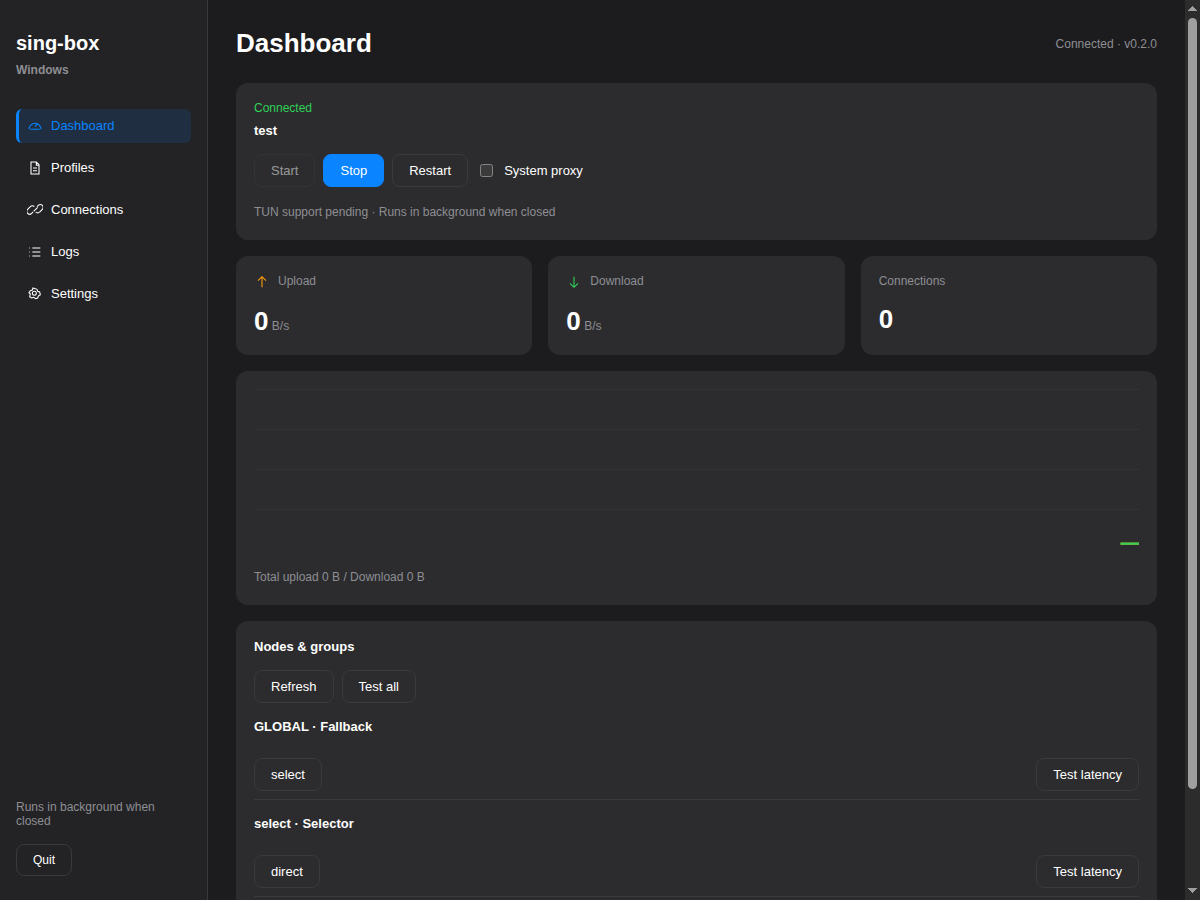
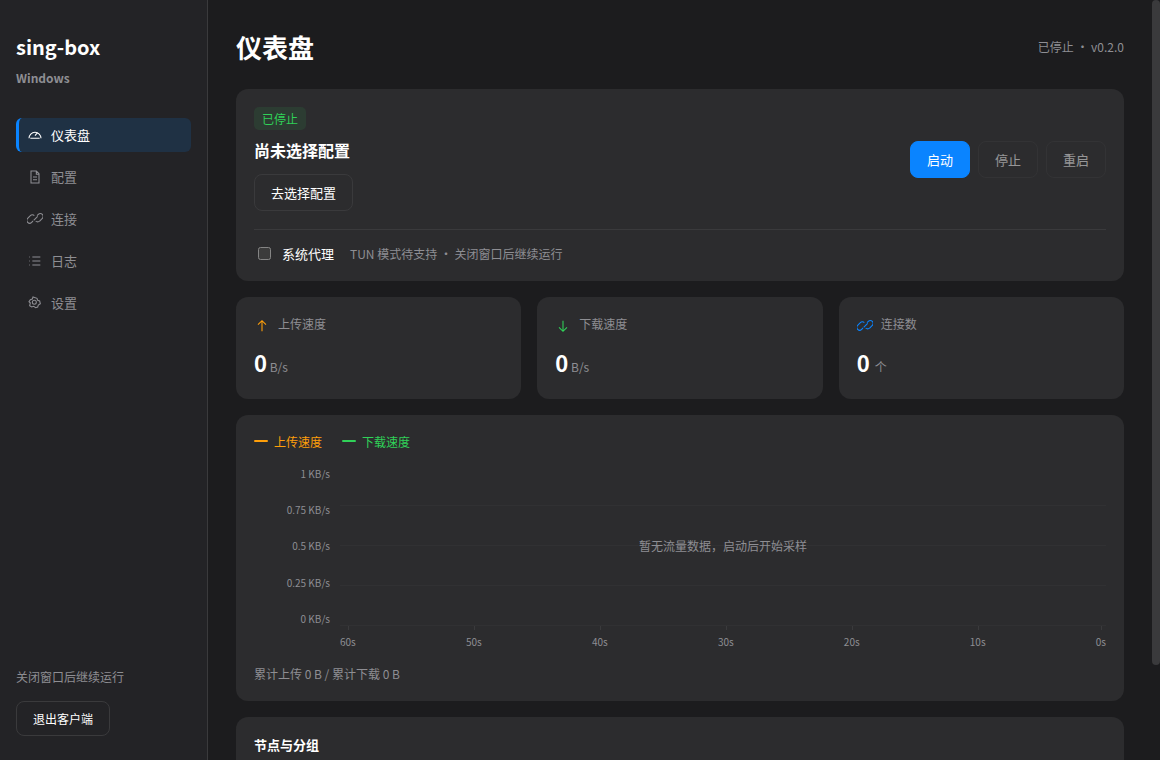
style: polish dashboard metrics, traffic empty state and controls

diff --git a/cmd/singbox-win/web/app.js b/cmd/singbox-win/web/app.js
@@ -2,6 +2,7 @@ const dictionary = {
 "Dashboard":["仪表盘","Dashboard"],"Profiles":["配置","Profiles"],"Connections":["连接","Connections"],"Logs":["日志","Logs"],"Settings":["设置","Settings"],
 "upload":["上传速度","Upload"],"download":["下载速度","Download"],"network":["网络","Network"],"duration":["时长","Duration"],"clear":["清空","Clear"],"copyLink":["复制导入链接","Copy import link"],"language":["语言","Language"],"theme":["主题","Theme"],"dark":["深色","Dark"],"light":["浅色","Light"],"register":["注册深链","Register deep links"],"unregister":["取消注册","Unregister"],"exportLogs":["导出日志","Export logs"],"quit":["退出客户端","Quit"],"actions":["操作","Actions"],"saved":["已保存","Saved"],"connected":["运行中","Connected"],"stopped":["已停止","Stopped"],"noProfile":["尚未选择配置","No profile selected"],"test":["测速","Test latency"],"urlRequired":["请先输入订阅 URL","Enter a subscription URL first"],
 };
+Object.assign(dictionary,{chooseProfile:["去选择配置","Choose a profile"],countUnit:["个","items"],trafficEmpty:["暂无流量数据，启动后开始采样","No traffic data. Start to begin sampling."]});
 let language="zh-CN";
 function t(key){return dictionary[key]?.[language==="en"?1:0] || key;}
 function applyLanguage(value){language=value==="en"?"en":"zh-CN";document.documentElement.lang=language;document.querySelectorAll("[data-i18n]").forEach(el=>{if(el.matches("nav button"))return;el.textContent=t(el.dataset.i18n);});document.querySelectorAll("[data-i18n-placeholder]").forEach(el=>el.placeholder=t(el.dataset.i18nPlaceholder));if(document.getElementById("title"))document.getElementById("title").textContent=t(page);}
@@ -227,10 +228,11 @@ async function poll() {
   const s = await api("state");
   running = s.running;
   $("connectionState").textContent=t(s.running?"connected":"stopped");
-  for(const b of document.querySelectorAll("[data-core]")){b.classList.toggle("primary",b.dataset.core===(running?"stop":"start"));b.disabled=b.dataset.core==="start"?running:!running;}
+  for(const b of document.querySelectorAll("[data-core]")){b.classList.toggle("primary",b.dataset.core==="start");b.disabled=b.dataset.core==="start"?running:!running;}
   $("status").textContent =
     (s.running ? t("connected") : t("stopped")) + " · v" + s.version;
   $("profile").textContent = s.profile || t("noProfile");
+  $("chooseProfile").hidden = !!s.profile;
   $("proxy").checked = s.system_proxy;
   if (s.error) error(s.error);
   if (page === "Logs") {
@@ -267,25 +269,15 @@ async function poll() {
     last = { ...t, time: now };
     setRate("up",up);
     setRate("down",down);
-    $("count").textContent = t.connections;
+    $("countValue").textContent = t.connections;
     $("totals").textContent =
       (language==="en"?"Total upload ":"累计上传 ") + bytes(t.upload_total) + (language==="en"?" / Download ":" / 累计下载 ") + bytes(t.download_total);
     history.push([up, down, now]);
     history = history.filter(v=>now-v[2]<60000);
     if (history.length > 60) history.shift();
-    const max = Math.max(1, ...history.flatMap(v=>v.slice(0,2)));
-    for (const [idx, id] of [
-      [0, "upLine"],
-      [1, "downLine"],
-    ])
-      $(id).setAttribute(
-        "points",
-        history
-          .map((v, i) => 800 - (now-v[2])*800/60000 + "," + (145 - (v[idx] / max) * 140))
-          .join(" "),
-      );
+    renderChart(now);
   }
-  if (!running) {last=null;setRate("up",0);setRate("down",0);$("count").textContent="0";}
+  if (!running) {last=null;setRate("up",0);setRate("down",0);$("countValue").textContent="0";renderChart(Date.now());}
   if(page==="Dashboard" && (!window.nodesLoaded || window.nodesRunning!==running)){window.nodesLoaded=true;window.nodesRunning=running;await nodes();}
 }
 let polling = false;
@@ -313,3 +305,17 @@ $("exportLogs").onclick=()=>action(async()=>{const logs=await api("logs?limit=50
 for(const el of document.querySelectorAll("[data-arrow]")){el.append(icon("arrow"));if(el.dataset.arrow==="up")el.firstChild.style.transform="rotate(180deg)";}
 
 function setRate(id,n){const [value,unit]=bytes(n).split(" ");const small=document.createElement("span");small.className="unit";small.textContent=" "+unit+"/s";$(id).replaceChildren(document.createTextNode(value),small);}
+
+$("chooseProfile").onclick=()=>document.querySelector('[data-page="Profiles"]').click();
+$("countIcon").append(icon("Connections"));
+function renderChart(now){
+  const samples=history.filter(v=>now-v[2]<60000);
+  const peak=Math.max(0,...samples.flatMap(v=>v.slice(0,2)));
+  const max=peak ? Math.pow(10,Math.floor(Math.log10(peak)))*Math.ceil(peak/Math.pow(10,Math.floor(Math.log10(peak)))) : 1024;
+  const unit=max>=1048576?1048576:max>=1024?1024:1;
+  const suffix=unit===1048576?"MB/s":unit===1024?"KB/s":"B/s";
+  $("yAxis").replaceChildren(...[1,.75,.5,.25,0].map(f=>{const el=document.createElement("span");el.textContent=Number((max*f/unit).toFixed(2))+" "+suffix;return el;}));
+  $("chartEmpty").hidden=samples.length>0;
+  for(const [idx,id] of [[0,"upLine"],[1,"downLine"]])$(id).setAttribute("points",samples.map(v=>(800-(now-v[2])*800/60000)+","+(158-v[idx]/max*156)).join(" "));
+}
+renderChart(Date.now());

diff --git a/cmd/singbox-win/web/style.css b/cmd/singbox-win/web/style.css
@@ -7,7 +7,7 @@ aside{width:208px;height:100vh;position:fixed;background:var(--sidebar);padding:
 aside h2{font-size:20px;margin:8px 0 32px}
 small{display:block;font-size:12px;color:var(--muted);margin-top:8px}
 nav button{display:flex;align-items:center;gap:8px;width:100%;height:34px;line-height:34px;text-align:left;background:transparent;border:0;border-left:3px solid transparent;border-radius:6px;margin:8px 0;padding:0 8px}
-nav button.active{background:#0a84ff1f;color:#0a84ff;border-left-color:#0a84ff}
+nav button.active{background:rgba(10,132,255,0.14);color:#fff;border-left-color:#0a84ff}
 nav svg,.metricIcon svg{width:16px;height:16px;flex-shrink:0;vertical-align:middle}
 .metricIcon{display:inline-flex;vertical-align:middle;margin-right:8px}
 .upload{color:#ff9f0a}
@@ -31,10 +31,10 @@ input[type=checkbox]{accent-color:#0a84ff}
 textarea{display:block;width:100%;height:128px;margin:16px 0}
 label{display:inline-flex;align-items:center;gap:8px}
 form label{display:flex;justify-content:space-between;max-width:600px;margin:16px 0}
-strong{display:block;font-size:26px;font-weight:600;margin-top:16px;color:var(--text)}
+strong{display:block;font-size:22px;font-weight:600;margin-top:16px;color:var(--text)}
 .metrics{display:grid;grid-template-columns:repeat(3,1fr);gap:16px}
 .metrics article{color:var(--muted);font-size:12px}
-#chart{width:100%;height:160px;background:repeating-linear-gradient(to top,transparent 0,transparent 39px,var(--border) 40px)}
+#chart{display:block;width:100%;height:160px}
 #error{white-space:pre-wrap;color:#ff6961;background:#442a2a;border-radius:8px;padding:16px;margin-bottom:16px;display:none}
 #logs{background:var(--card);padding:18px;border-radius:12px;height:65vh;overflow:auto;white-space:pre-wrap;font-size:12px;line-height:1.7}
 table{width:100%;text-align:left;border-collapse:collapse;font-size:13px}
@@ -63,3 +63,32 @@ main{margin-left:160px;width:calc(100% - 160px);padding:28px}
 
 .statusLabel{font-size:12px;color:#30d158;margin-bottom:8px}
 #nodesRefresh{margin-right:8px}
+
+nav button{color:#8e8e93}
+nav button:hover{background:rgba(255,255,255,.06)}
+nav button.active:hover{background:rgba(10,132,255,.14)}
+main{height:100vh;overflow:auto}
+*::-webkit-scrollbar{width:8px;height:8px}
+*::-webkit-scrollbar-thumb{background:#3a3a3c;border-radius:4px}
+*::-webkit-scrollbar-track{background:transparent}
+.metrics strong{line-height:28px;margin-top:14px}
+.unit{display:inline;vertical-align:baseline;line-height:inherit}
+.connectionsIcon{color:#0a84ff}
+.statusTop{display:flex;align-items:center;justify-content:space-between;gap:16px}
+.statusInfo h2{margin:0;font-size:16px}
+.statusInfo #chooseProfile{margin-top:12px}
+.statusLabel{display:inline-flex;border-radius:5px;padding:3px 8px;background:rgba(48,209,88,.1)}
+.statusActions{display:flex;gap:8px;flex-wrap:wrap}
+.proxyRow{display:flex;align-items:center;gap:16px;flex-wrap:wrap;border-top:1px solid var(--border);margin-top:18px;padding-top:14px}
+.proxyRow p{margin:0}
+.chartLegend{display:flex;gap:20px;font-size:12px;margin-bottom:16px}
+.chartLegend>span{display:flex;align-items:center;gap:6px}
+.chartLegend i{width:14px;height:2px;background:currentColor;border-radius:2px}
+.chartFrame{display:grid;grid-template-columns:76px 1fr;grid-template-rows:160px 22px;column-gap:10px}
+.yAxis{display:flex;flex-direction:column;justify-content:space-between;color:var(--muted);font-size:10px;text-align:right}
+.plot{position:relative;background:repeating-linear-gradient(to top,var(--border) 0,var(--border) 1px,transparent 1px,transparent 40px)}
+#chartEmpty{position:absolute;inset:0;display:flex;align-items:center;justify-content:center;color:var(--muted);font-size:12px;text-align:center;padding:12px;background:color-mix(in srgb,var(--card) 65%,transparent)}
+.xAxis{grid-column:2;display:flex;justify-content:space-between;color:var(--muted);font-size:10px}
+.xAxis span{padding-top:8px;position:relative}
+.xAxis span:before{content:"";position:absolute;top:0;left:50%;height:4px;border-left:1px solid var(--border)}
+@media(max-width:900px){.statusTop{align-items:flex-start;flex-wrap:wrap}}

diff --git a/cmd/singbox-win/web/index.html b/cmd/singbox-win/web/index.html
@@ -19,35 +19,31 @@
       <div id="error" role="alert"></div>
       <section id="Dashboard">
         <div class="card" id="statusCard">
-          <div class="statusLabel" id="connectionState">0</div><h2 id="profile">尚未选择配置</h2>
-          <div class="row">
-            <button class="primary" data-core="start"><span data-i18n="启动">启动</span></button
-            ><button data-core="stop"><span data-i18n="停止">停止</span></button
-            ><button data-core="restart"><span data-i18n="重启">重启</span></button
-            ><label><input type="checkbox" id="proxy" /><span data-i18n="系统代理">系统代理</span></label>
+          <div class="statusTop">
+            <div class="statusInfo"><div class="statusLabel" id="connectionState">0</div><h2 id="profile">尚未选择配置</h2><button id="chooseProfile" data-i18n="chooseProfile">去选择配置</button></div>
+            <div class="statusActions">
+              <button class="primary" data-core="start" data-i18n="启动">启动</button>
+              <button data-core="stop" data-i18n="停止">停止</button>
+              <button data-core="restart" data-i18n="重启">重启</button>
+            </div>
           </div>
-          <p><span data-i18n="TUN 模式待支持 · 关闭窗口后继续运行">TUN 模式待支持 · 关闭窗口后继续运行</span></p>
+          <div class="proxyRow"><label><input type="checkbox" id="proxy" /><span data-i18n="系统代理">系统代理</span></label><p data-i18n="TUN 模式待支持 · 关闭窗口后继续运行">TUN 模式待支持 · 关闭窗口后继续运行</p></div>
         </div>
         <div class="metrics">
           <article><span class="metricIcon upload" data-arrow="up"></span><span data-i18n="upload">上传速度</span><strong id="up">0 B/s</strong></article>
           <article><span class="metricIcon download" data-arrow="down"></span><span data-i18n="download">下载速度</span><strong id="down">0 B/s</strong></article>
-          <article><span data-i18n="连接数">连接数</span><strong id="count">0</strong></article>
+          <article><span class="metricIcon connectionsIcon" id="countIcon"></span><span data-i18n="连接数">连接数</span><strong id="count"><span id="countValue">0</span> <span class="unit" data-i18n="countUnit">个</span></strong></article>
         </div>
-        <div class="card">
-          <svg id="chart" viewBox="0 0 800 150" preserveAspectRatio="none">
-            <polyline
-              id="upLine"
-              fill="none"
-              stroke="#FF9F0A"
-              stroke-width="2"
-            />
-            <polyline
-              id="downLine"
-              fill="none"
-              stroke="#30D158"
-              stroke-width="2"
-            />
-          </svg>
+        <div class="card trafficCard">
+          <div class="chartLegend"><span class="upload"><i></i><span data-i18n="upload">上传速度</span></span><span class="download"><i></i><span data-i18n="download">下载速度</span></span></div>
+          <div class="chartFrame">
+            <div id="yAxis" class="yAxis"></div>
+            <div class="plot"><svg id="chart" viewBox="0 0 800 160" preserveAspectRatio="none" aria-hidden="true">
+              <polyline id="upLine" fill="none" stroke="#FF9F0A" stroke-width="2" stroke-linejoin="round" stroke-linecap="round" vector-effect="non-scaling-stroke" />
+              <polyline id="downLine" fill="none" stroke="#30D158" stroke-width="2" stroke-linejoin="round" stroke-linecap="round" vector-effect="non-scaling-stroke" />
+            </svg><div id="chartEmpty" data-i18n="trafficEmpty">暂无流量数据，启动后开始采样</div></div>
+            <div class="xAxis"><span>60s</span><span>50s</span><span>40s</span><span>30s</span><span>20s</span><span>10s</span><span>0s</span></div>
+          </div>
           <p id="totals"><span data-i18n="累计上传 0 B / 累计下载 0 B">累计上传 0 B / 累计下载 0 B</span></p>
         </div>
         <div class="card">
